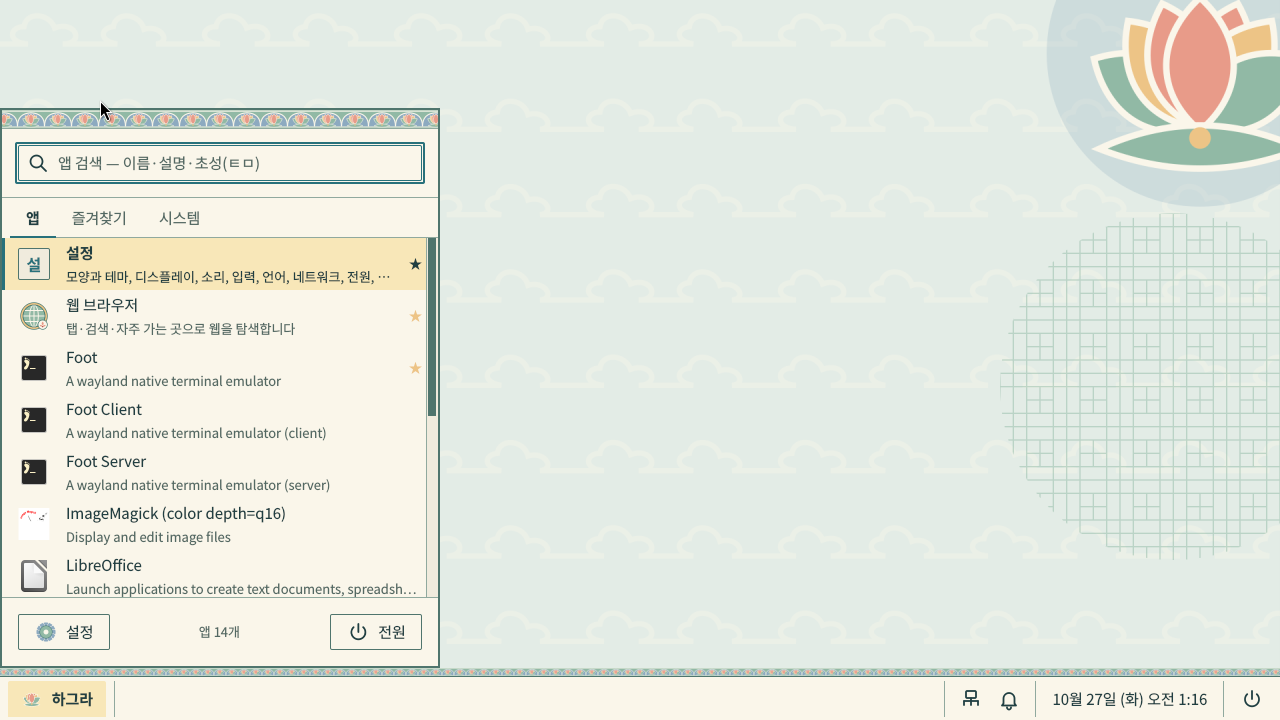
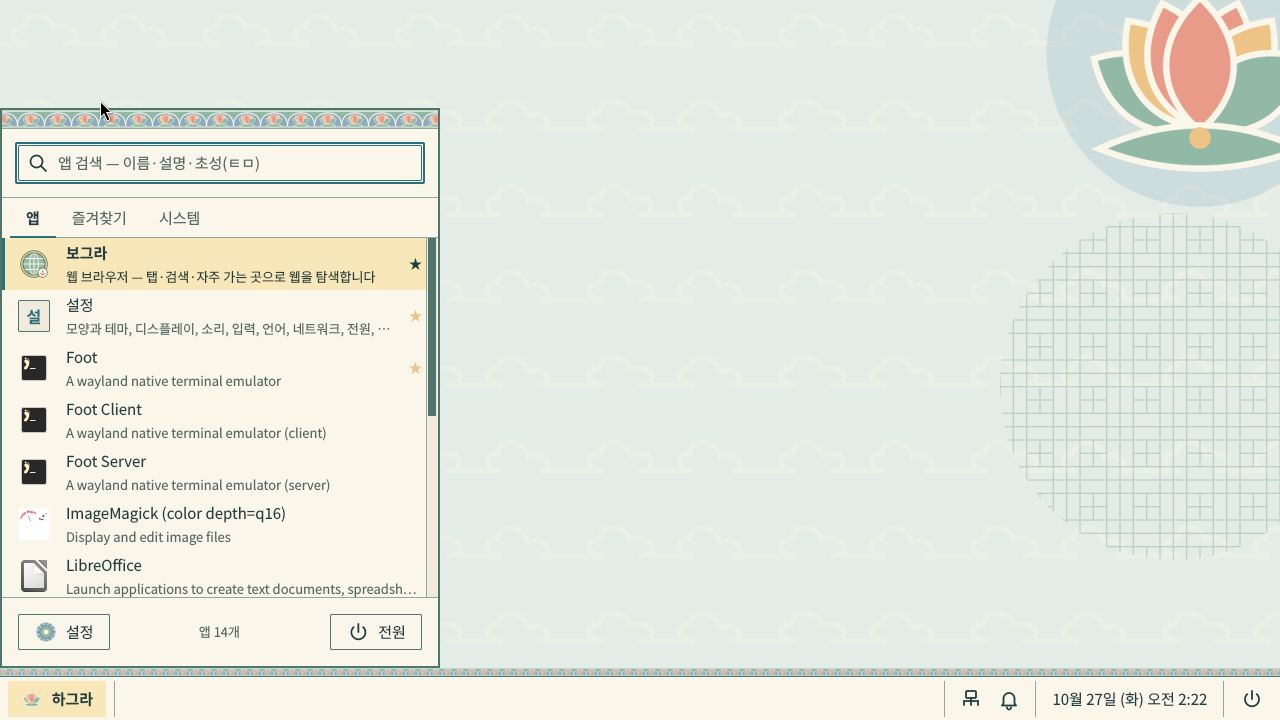
브라우저 이름을 보그라(Bogra)로
- 창 제목·시작 페이지·실행 메뉴(.desktop Name/Keywords)·바탕 화면 메뉴·알림 앱 이름·영어 번역(Bogra)·문서
- 명령 hagra-browser 와 앱 ID org.hagra.browser 는 다른 하그라 구성 요소 규칙대로 유지
- docs/screenshots/b1 갱신

Claude-Session: https://claude.ai/code/session_01UHELcFjk2sEME5NpDwdxkP

Changed region(s): [[0.0, 0.3361, 0.3125, 0.4889]]

diff --git a/browser/i18n/hagra-browser_en.ts b/browser/i18n/hagra-browser_en.ts
@@ -42,8 +42,8 @@
     </message>
     <message>
         <location filename="../src/browserhelper.cpp" line="279" />
-        <source>하그라 브라우저</source>
-        <translation>HAGRA Browser</translation>
+        <source>보그라</source>
+        <translation>Bogra</translation>
     </message>
 </context>
 <context>
@@ -78,8 +78,8 @@
     </message>
     <message>
         <location filename="../qml/Main.qml" line="15" />
-        <source>하그라 브라우저</source>
-        <translation>HAGRA Browser</translation>
+        <source>보그라</source>
+        <translation>Bogra</translation>
     </message>
     <message>
         <location filename="../qml/Main.qml" line="43" />
@@ -432,27 +432,27 @@
 <context>
     <name>StartPage</name>
     <message>
-        <location filename="../qml/StartPage.qml" line="27" />
-        <source>하그라 브라우저</source>
-        <translation>HAGRA Browser</translation>
+        <location filename="../qml/StartPage.qml" line="26" />
+        <source>보그라</source>
+        <translation>Bogra</translation>
     </message>
     <message>
-        <location filename="../qml/StartPage.qml" line="32" />
+        <location filename="../qml/StartPage.qml" line="31" />
         <source>%1에서 검색하거나 주소 입력</source>
         <translation>Search %1 or enter address</translation>
     </message>
     <message>
-        <location filename="../qml/StartPage.qml" line="33" />
+        <location filename="../qml/StartPage.qml" line="32" />
         <source>검색 또는 주소</source>
         <translation>Search or address</translation>
     </message>
     <message>
-        <location filename="../qml/StartPage.qml" line="37" />
+        <location filename="../qml/StartPage.qml" line="36" />
         <source>주소 표시줄의 ★ 단추로 자주 가는 곳을 여기에 추가합니다.</source>
         <translation>Use the ★ button in the address bar to add frequent sites here.</translation>
     </message>
     <message>
-        <location filename="../qml/StartPage.qml" line="69" />
+        <location filename="../qml/StartPage.qml" line="68" />
         <source>자주 가는 곳에서 빼기</source>
         <translation>Remove from Frequent Sites</translation>
     </message>

diff --git a/tests/browser/page.html b/tests/browser/page.html
@@ -1,13 +1,13 @@
 <!doctype html>
 <html lang="ko">
-<head><meta charset="utf-8"><title>하그라 브라우저 시험 페이지</title>
+<head><meta charset="utf-8"><title>보그라 시험 페이지</title>
 <style>
   body { font-family: "Noto Sans CJK KR", sans-serif; margin: 40px; background: #FAF6EA; color: #203F42; }
   h1 { color: #28717B; } .box { border: 2px solid #4F756D; padding: 16px; margin-top: 16px; }
   #js { font-weight: bold; color: #A54042; }
 </style></head>
 <body>
-  <h1>안녕하세요, 하그라 브라우저입니다</h1>
+  <h1>안녕하세요, 보그라입니다</h1>
   <p>이 페이지는 헤드리스 검사(tests/design/capture-browser.sh)가 file:// 로 엽니다. 한글 글꼴·CSS·자바스크립트가 동작하는지 봅니다.</p>
   <div class="box">자바스크립트: <span id="js">실행 안 됨</span></div>
   <p><a href="https://example.com/">바깥 링크</a> · <a href="page.html#again">같은 페이지</a> · <a id="dl" href="page.html" download="hagra-test.html">내려받기 시험</a></p>

diff --git a/browser/qml/Main.qml b/browser/qml/Main.qml
@@ -1,4 +1,4 @@
-// 하그라 브라우저 — 창: 연화 띠 · 탭 막대 · 도구 막대(뒤로·앞으로·새로 고침·처음·주소·★·메뉴) · 알림 막대 · 웹 콘텐츠 · 내려받기 막대.
+// 보그라 — 창: 연화 띠 · 탭 막대 · 도구 막대(뒤로·앞으로·새로 고침·처음·주소·★·메뉴) · 알림 막대 · 웹 콘텐츠 · 내려받기 막대.
 // 창 장식은 labwc(SSD). 단일 인스턴스 소켓 명령: "open:<주소>"(새 탭) | "raise".
 import QtQuick
 import QtWebEngine
@@ -12,7 +12,7 @@ Window {
     minimumWidth: 480; minimumHeight: 360
     color: Theme.surface
     visible: true
-    title: (current ? current.displayTitle : qsTr("새 탭")) + " — " + qsTr("하그라 브라우저")
+    title: (current ? current.displayTitle : qsTr("새 탭")) + " — " + qsTr("보그라")
 
     property var tabs: []
     property int currentIndex: -1

diff --git a/browser/qml/StartPage.qml b/browser/qml/StartPage.qml
@@ -23,8 +23,7 @@ Rectangle {
         Row {
             anchors.horizontalCenter: parent.horizontalCenter; spacing: Theme.padding
             Image { source: Theme.asset("lotus"); width: 40; height: 40; sourceSize: Qt.size(80, 80); anchors.verticalCenter: parent.verticalCenter; smooth: true }
-            MLabel { text: Theme.brandName; font.pixelSize: 32; font.bold: true; anchors.verticalCenter: parent.verticalCenter
-                     Accessible.name: qsTr("하그라 브라우저") }
+            MLabel { text: qsTr("보그라"); font.pixelSize: 32; font.bold: true; anchors.verticalCenter: parent.verticalCenter }
         }
         MSearchField {
             id: search

diff --git a/browser/src/main.cpp b/browser/src/main.cpp
@@ -1,4 +1,4 @@
-// hagra-browser — 하그라 브라우저 진입점 (Qt WebEngine + HagraUI)
+// hagra-browser — 보그라 진입점 (Qt WebEngine + HagraUI)
 //   hagra-browser [주소|파일 ...]   창 열기. 이미 실행 중이면 그 창에 새 탭으로 연다 (단일 인스턴스 소켓 "open:<주소>")
 // SPDX-License-Identifier: GPL-3.0-or-later
 #include <QCommandLineParser>
@@ -93,7 +93,7 @@ int main(int argc, char *argv[])
     hagraLoadTranslation(app, QStringLiteral("hagra-browser"));
 
     QCommandLineParser parser;
-    parser.setApplicationDescription(QStringLiteral("HAGRA Browser"));
+    parser.setApplicationDescription(QStringLiteral("Bogra — HAGRA web browser"));
     parser.addHelpOption();
     parser.addVersionOption();
     parser.addPositionalArgument(QStringLiteral("url"), QStringLiteral("Addresses or files to open in new tabs"), QStringLiteral("[url...]"));

diff --git a/tests/image/boot_test.py b/tests/image/boot_test.py
@@ -236,7 +236,7 @@ def main():
 
         step("웹 브라우저 실행 (세션 환경으로 로컬 페이지 열기)")
         page = base64.b64encode('<!doctype html><meta charset="utf-8"><title>HAGRA boot page</title>'
-                                '<h1>하그라 브라우저</h1><script>document.title += " js-ok"</script>'.encode()).decode()
+                                '<h1>보그라</h1><script>document.title += " js-ok"</script>'.encode()).decode()
         q.sh(f"echo {page} | base64 -d > /tmp/hagra-browser-test.html; chmod 644 /tmp/hagra-browser-test.html")
         # hagra-shell 의 환경(WAYLAND_DISPLAY·QT_QUICK_BACKEND·LANG …)을 그대로 써서 실행 메뉴로 연 것과 같은 조건으로 띄운다
         sess_env = ("$(tr '\\0' '\\n' < /proc/$(pgrep -o -u hagra hagra-shell)/environ"

diff --git a/browser/src/browserhelper.cpp b/browser/src/browserhelper.cpp
@@ -276,7 +276,7 @@ bool BrowserHelper::notify(const QString &title, const QString &body) const
 {
     QDBusMessage m = QDBusMessage::createMethodCall(QStringLiteral("org.freedesktop.Notifications"), QStringLiteral("/org/freedesktop/Notifications"),
                                                     QStringLiteral("org.freedesktop.Notifications"), QStringLiteral("Notify"));
-    m << QCoreApplication::translate("BrowserHelper", "하그라 브라우저") << 0u << QStringLiteral("org.hagra.browser") << title << body
+    m << QCoreApplication::translate("BrowserHelper", "보그라") << 0u << QStringLiteral("org.hagra.browser") << title << body
       << QStringList() << QVariantMap() << -1;
     return QDBusConnection::sessionBus().send(m);
 }

diff --git a/browser/src/browserhelper.h b/browser/src/browserhelper.h
@@ -1,4 +1,4 @@
-// 하그라 브라우저 — QML 에 노출되는 도우미: 주소 입력 해석, 검색 엔진, 시작 페이지의 자주 가는 곳, 저장 경로, 데스크톱 알림.
+// 보그라 — QML 에 노출되는 도우미: 주소 입력 해석, 검색 엔진, 시작 페이지의 자주 가는 곳, 저장 경로, 데스크톱 알림.
 //   설정: ~/.config/hagra/browser.conf   [browser] search=<id> · shortcuts=<제목>\t<주소> 목록
 // SPDX-License-Identifier: GPL-3.0-or-later
 #pragma once

diff --git a/browser/tests/tst_browser.cpp b/browser/tests/tst_browser.cpp
@@ -1,4 +1,4 @@
-// 하그라 브라우저 도우미 단위 테스트 — 주소 입력 해석, 검색 엔진·자주 가는 곳 저장(임시 HOME), Accept-Language.
+// 보그라 도우미 단위 테스트 — 주소 입력 해석, 검색 엔진·자주 가는 곳 저장(임시 HOME), Accept-Language.
 #include <QtTest>
 #include <QTemporaryDir>
 #include "browserhelper.h"

diff --git a/docs/KNOWN_ISSUES.md b/docs/KNOWN_ISSUES.md
@@ -17,6 +17,6 @@
 | 13 | 다중 모니터 | 출력마다 패널이 뜨고 팝업은 누른 패널의 출력에 나타난다. 헤드리스 2출력으로만 검증했고 실제 두 모니터·서로 다른 배율은 미검증. | 중간 | 실기기 체크리스트 |
 | 14 | 알림 | 알림 소리·아이콘 이미지(hints image-data)는 표시하지 않는다. 동작 버튼·긴급·방해 금지·센터는 동작한다. | 낮음 | — |
 | 15 | 종료 로그 | 셸 종료 시 `[destroyed object] surface was destroyed before its role object` 가 드물게 기록된다 (기능 영향 없음; 종료 순서 수정 적용). | 낮음 | 헤드리스 테스트에서 재발 여부 감시 |
-| 16 | 브라우저 | 하그라 브라우저는 Qt 6.4 의 WebEngine(Chromium 102 기반)을 쓴다. 배포판 보안 갱신을 따르지만 최신 Chrome/Firefox 보다 엔진이 오래되어 일부 최신 사이트 기능이 없을 수 있다. 확장 기능·동기화·방문 기록 화면·세션 복원은 아직 없다. 이미지가 약 200 MB 커진다. | 중간 | 배포판의 qt6-webengine 갱신을 따라간다. 방문 기록·세션 복원은 후속 |
+| 16 | 브라우저 | 보그라는 Qt 6.4 의 WebEngine(Chromium 102 기반)을 쓴다. 배포판 보안 갱신을 따르지만 최신 Chrome/Firefox 보다 엔진이 오래되어 일부 최신 사이트 기능이 없을 수 있다. 확장 기능·동기화·방문 기록 화면·세션 복원은 아직 없다. 이미지가 약 200 MB 커진다. | 중간 | 배포판의 qt6-webengine 갱신을 따라간다. 방문 기록·세션 복원은 후속 |
 | 17 | 브라우저 | 소프트웨어 렌더링 세션(GPU 없는 QEMU, Android/Termux)에서는 `--disable-gpu` 로 동작해 동영상·WebGL 이 느리다. 모바일 프로필은 렌더러 프로세스를 2개로 제한한다. | 중간 | 실기기(GPU)에서는 하드웨어 가속 |
-| 18 | QEMU(TCG) | KVM 없이 x86-64 ISO 를 `-cpu max` 로 돌리면 QEMU 8.2 TCG 가 AVX2 마스크 load 를 잘못 에뮬레이트해 하그라 브라우저(Qt 그림 경로)가 segfault 한다. 실제 CPU·KVM 에서는 정상. | 낮음 | `image/qemu/run.sh` 는 TCG 에서 `Nehalem-v2`(AVX 없음)를 기본으로 쓴다. 다른 가상 머신에서도 TCG 면 AVX2 없는 CPU 모델을 고른다 |
+| 18 | QEMU(TCG) | KVM 없이 x86-64 ISO 를 `-cpu max` 로 돌리면 QEMU 8.2 TCG 가 AVX2 마스크 load 를 잘못 에뮬레이트해 보그라(Qt 그림 경로)가 segfault 한다. 실제 CPU·KVM 에서는 정상. | 낮음 | `image/qemu/run.sh` 는 TCG 에서 `Nehalem-v2`(AVX 없음)를 기본으로 쓴다. 다른 가상 머신에서도 TCG 면 AVX2 없는 CPU 모델을 고른다 |

diff --git a/docs/USER_GUIDE.md b/docs/USER_GUIDE.md
@@ -9,7 +9,7 @@
 | **작업 표시줄** (아래, 52px) | 왼쪽 **하그라** 버튼 = 실행 메뉴. 가운데 열린 창 목록. 오른쪽 표시기(네트워크·소리·배터리·알림) · 시계 · 전원. 위치는 설정 → 모양과 테마 → 패널에서 위/아래. |
 | **실행 메뉴** (Super+Space) | 검색창 · **앱 / 즐겨찾기 / 시스템** 탭 · 바닥의 **설정**·**전원** 버튼. 검색은 이름·영문 이름·설명·초성(ㅌㅁ → 터미널)을 찾는다. |
 | **바탕 화면 우클릭** | 응용 프로그램 · 터미널 · **개인 설정 ▸ 배경 바꾸기 / 모양과 테마 / 디스플레이 설정** · 설정 · 전원 |
-| **웹 브라우저** (Super+B) | 하그라 브라우저(`hagra-browser`). 실행 메뉴 즐겨찾기·바탕 화면 우클릭에도 있다. 자세한 내용은 §5.1 |
+| **보그라** 웹 브라우저 (Super+B) | 보그라(Bogra, 명령 `hagra-browser`). 실행 메뉴 즐겨찾기·바탕 화면 우클릭에도 있다. 자세한 내용은 §5.1 |
 | **설정** (Super+I) | 모양과 테마 · 배경 · 디스플레이 · 소리 · 키보드와 마우스 · 언어와 지역 · 네트워크 · 알림 · 전원 · 접근성 · 정보 |
 
 ## 2. 테마 바꾸기 (세 가지 길)
@@ -46,9 +46,9 @@
 
 fcitx5 + fcitx5-hangul 이 설치된 이미지에서는 세션 시작 때 입력기가 자동으로 뜬다. 한/영 전환은 Shift+Space(fcitx5 기본) 또는 한/영 키. 상태는 설정 → 언어와 지역 → 한글 입력기에서 확인하고 다시 시작할 수 있다. 키보드 배치(kr/us)와 배치 전환 키는 설정 → 키보드와 마우스.
 
-## 5.1 웹 브라우저
+## 5.1 웹 브라우저 — 보그라
 
-하그라 브라우저는 Qt WebEngine(Chromium 엔진) 위에 하그라 UI 를 입힌 기본 브라우저다. 링크·`xdg-open`·`$BROWSER` 로 여는 웹 주소도 이 브라우저로 열린다.
+보그라는 Qt WebEngine(Chromium 엔진) 위에 하그라 UI 를 입힌 기본 브라우저다. 링크·`xdg-open`·`$BROWSER` 로 여는 웹 주소도 이 브라우저로 열린다.
 
 | 동작 | 방법 |
 |---|---|
